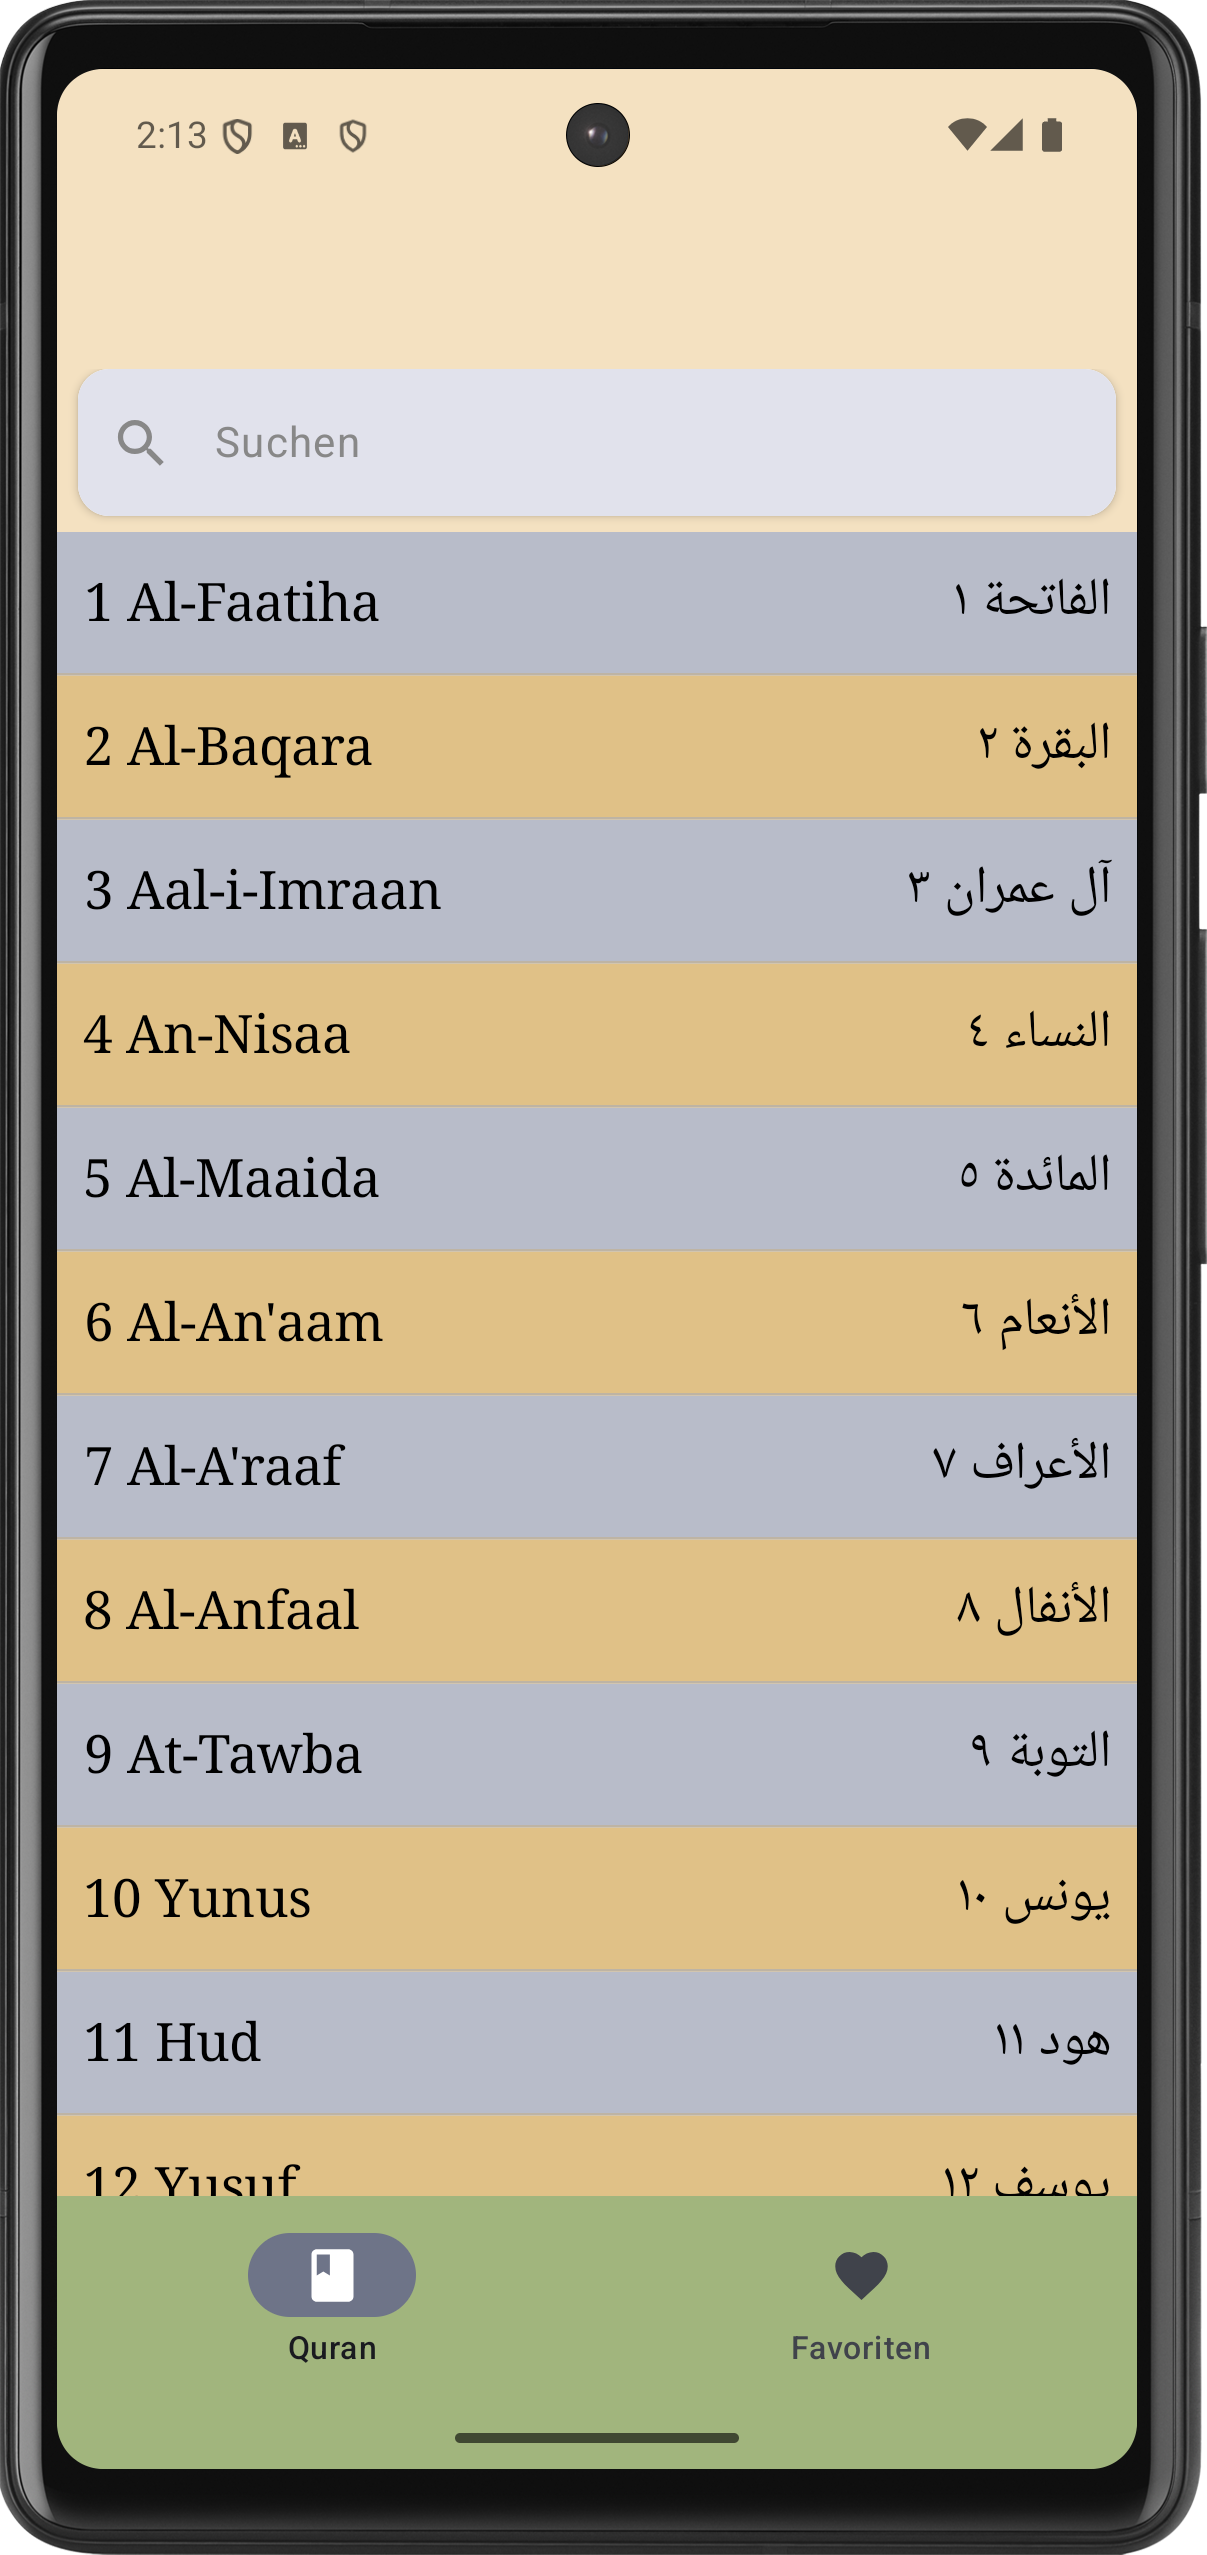
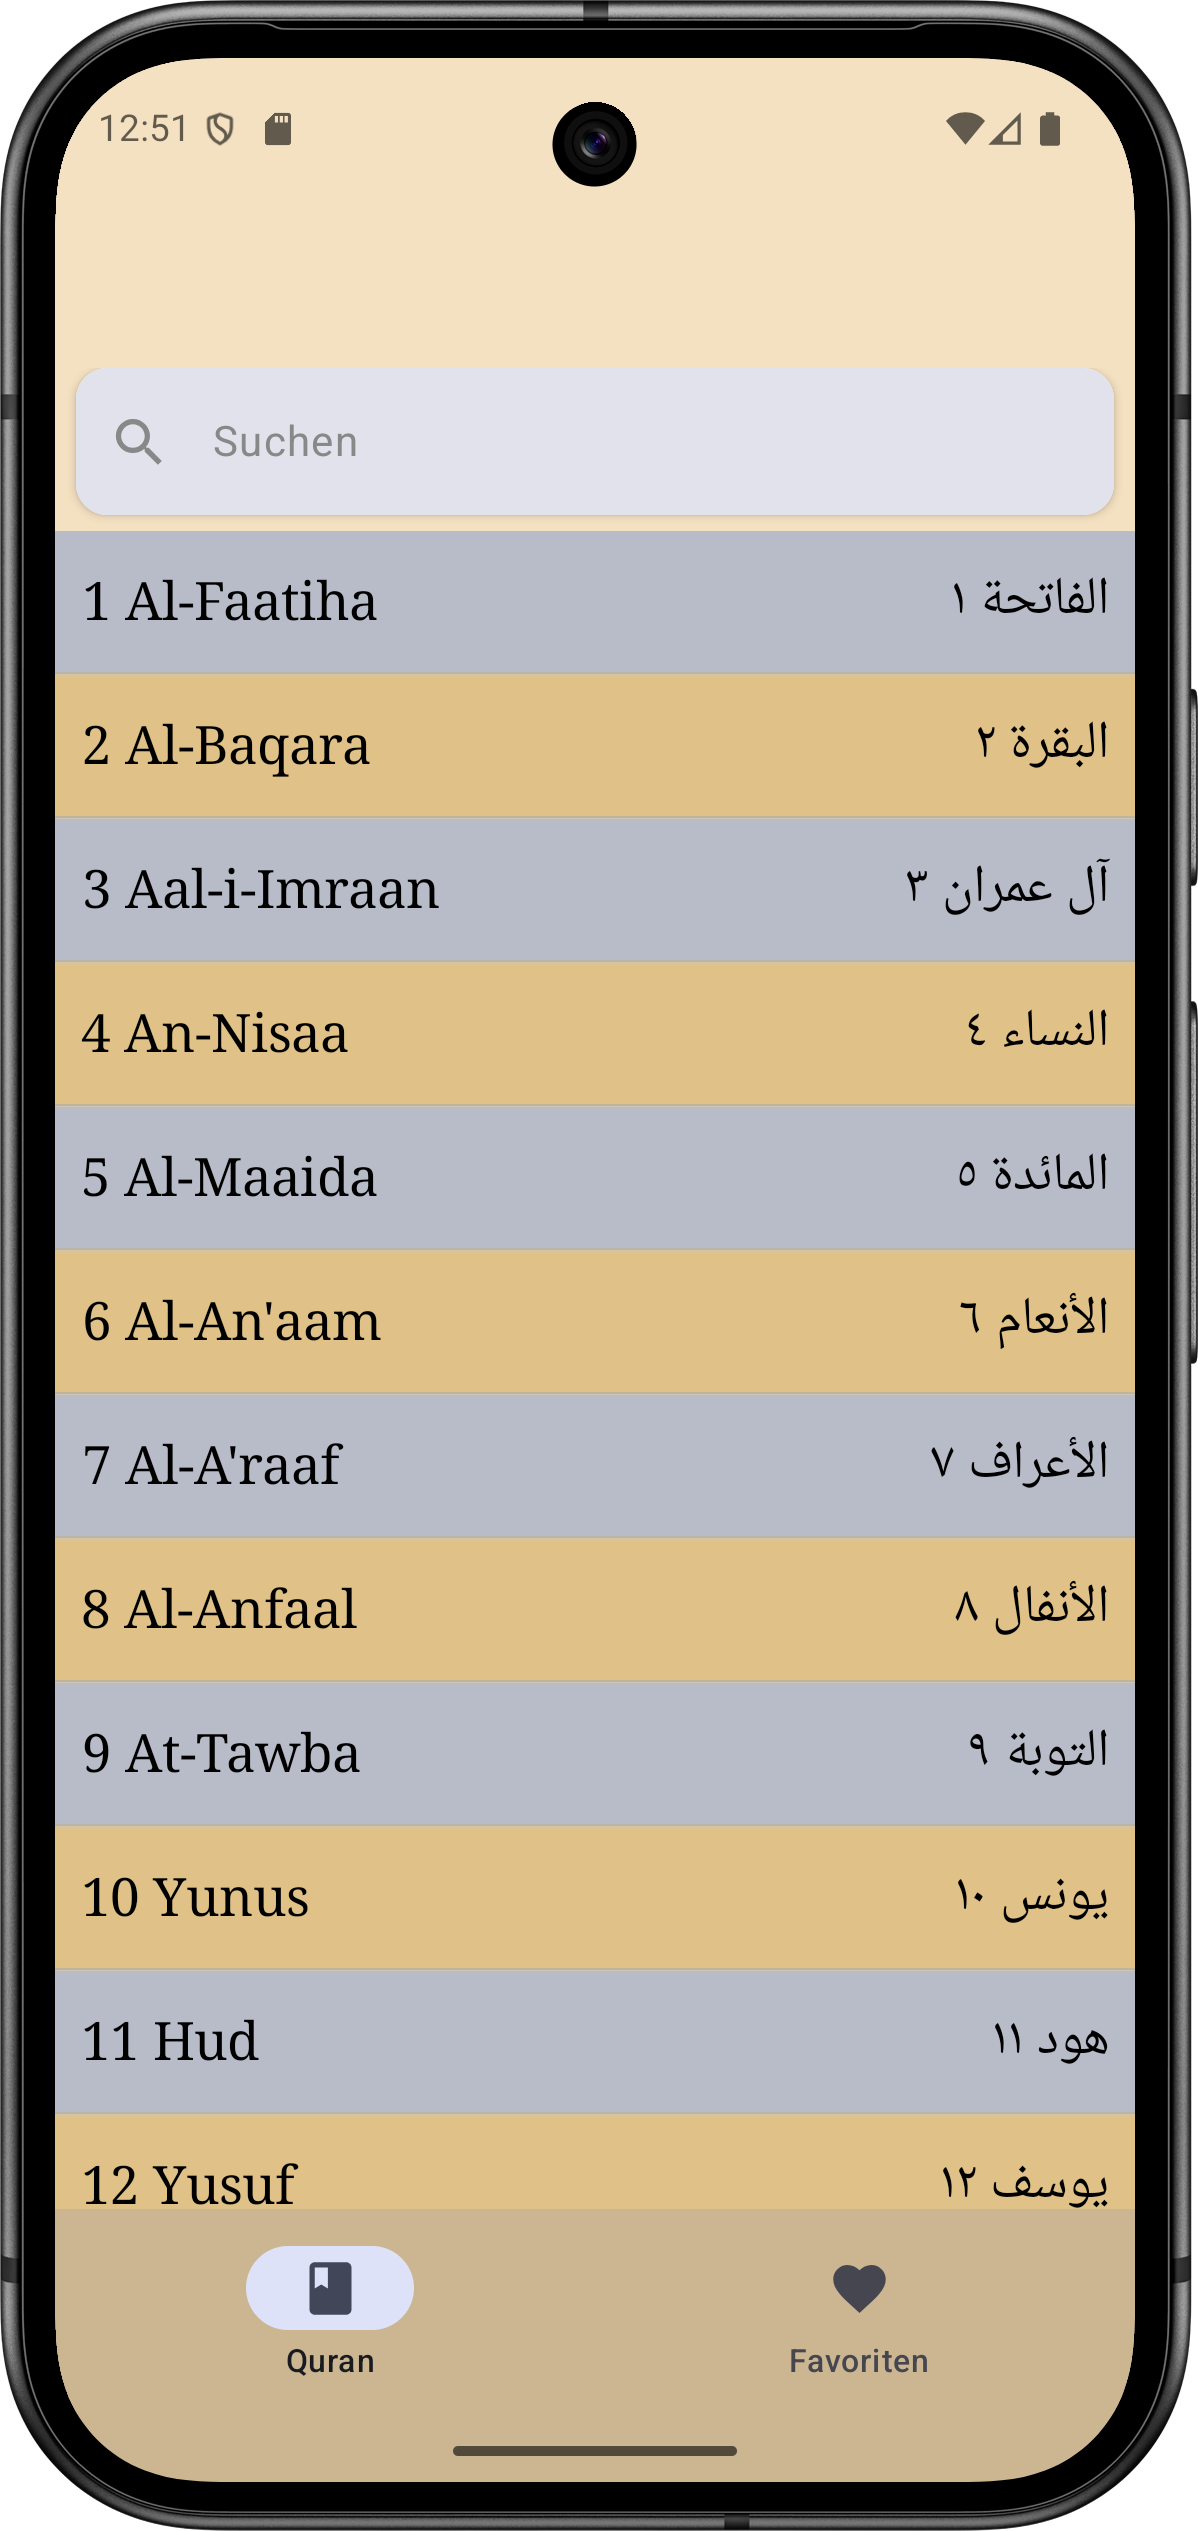
Refactor: Update SDK path, emulator configuration, and bottom navigation bar color
- Updates the Android SDK path in `local.properties`.
- Updates the emulator device path in `.idea/deploymentTargetSelector.xml`.
- Modifies the color of the `BottomAppBar` in `BottomNavBar.kt`.
- Adds new Screenshots to the img folder.

diff --git a/app/src/main/java/de/bueny/labbayk/ui/components/BottomNavBar.kt b/app/src/main/java/de/bueny/labbayk/ui/components/BottomNavBar.kt
@@ -18,7 +18,7 @@ fun BottomNavigationBar(
     onItemSelected: (NavigationItem) -> Unit
 ) {
     BottomAppBar(
-        containerColor = Color(0xFFA1B57D)
+        containerColor = Color(0xA9B6A079)
     ) {
         NavigationItem.entries.forEach {
             NavigationBarItem(
